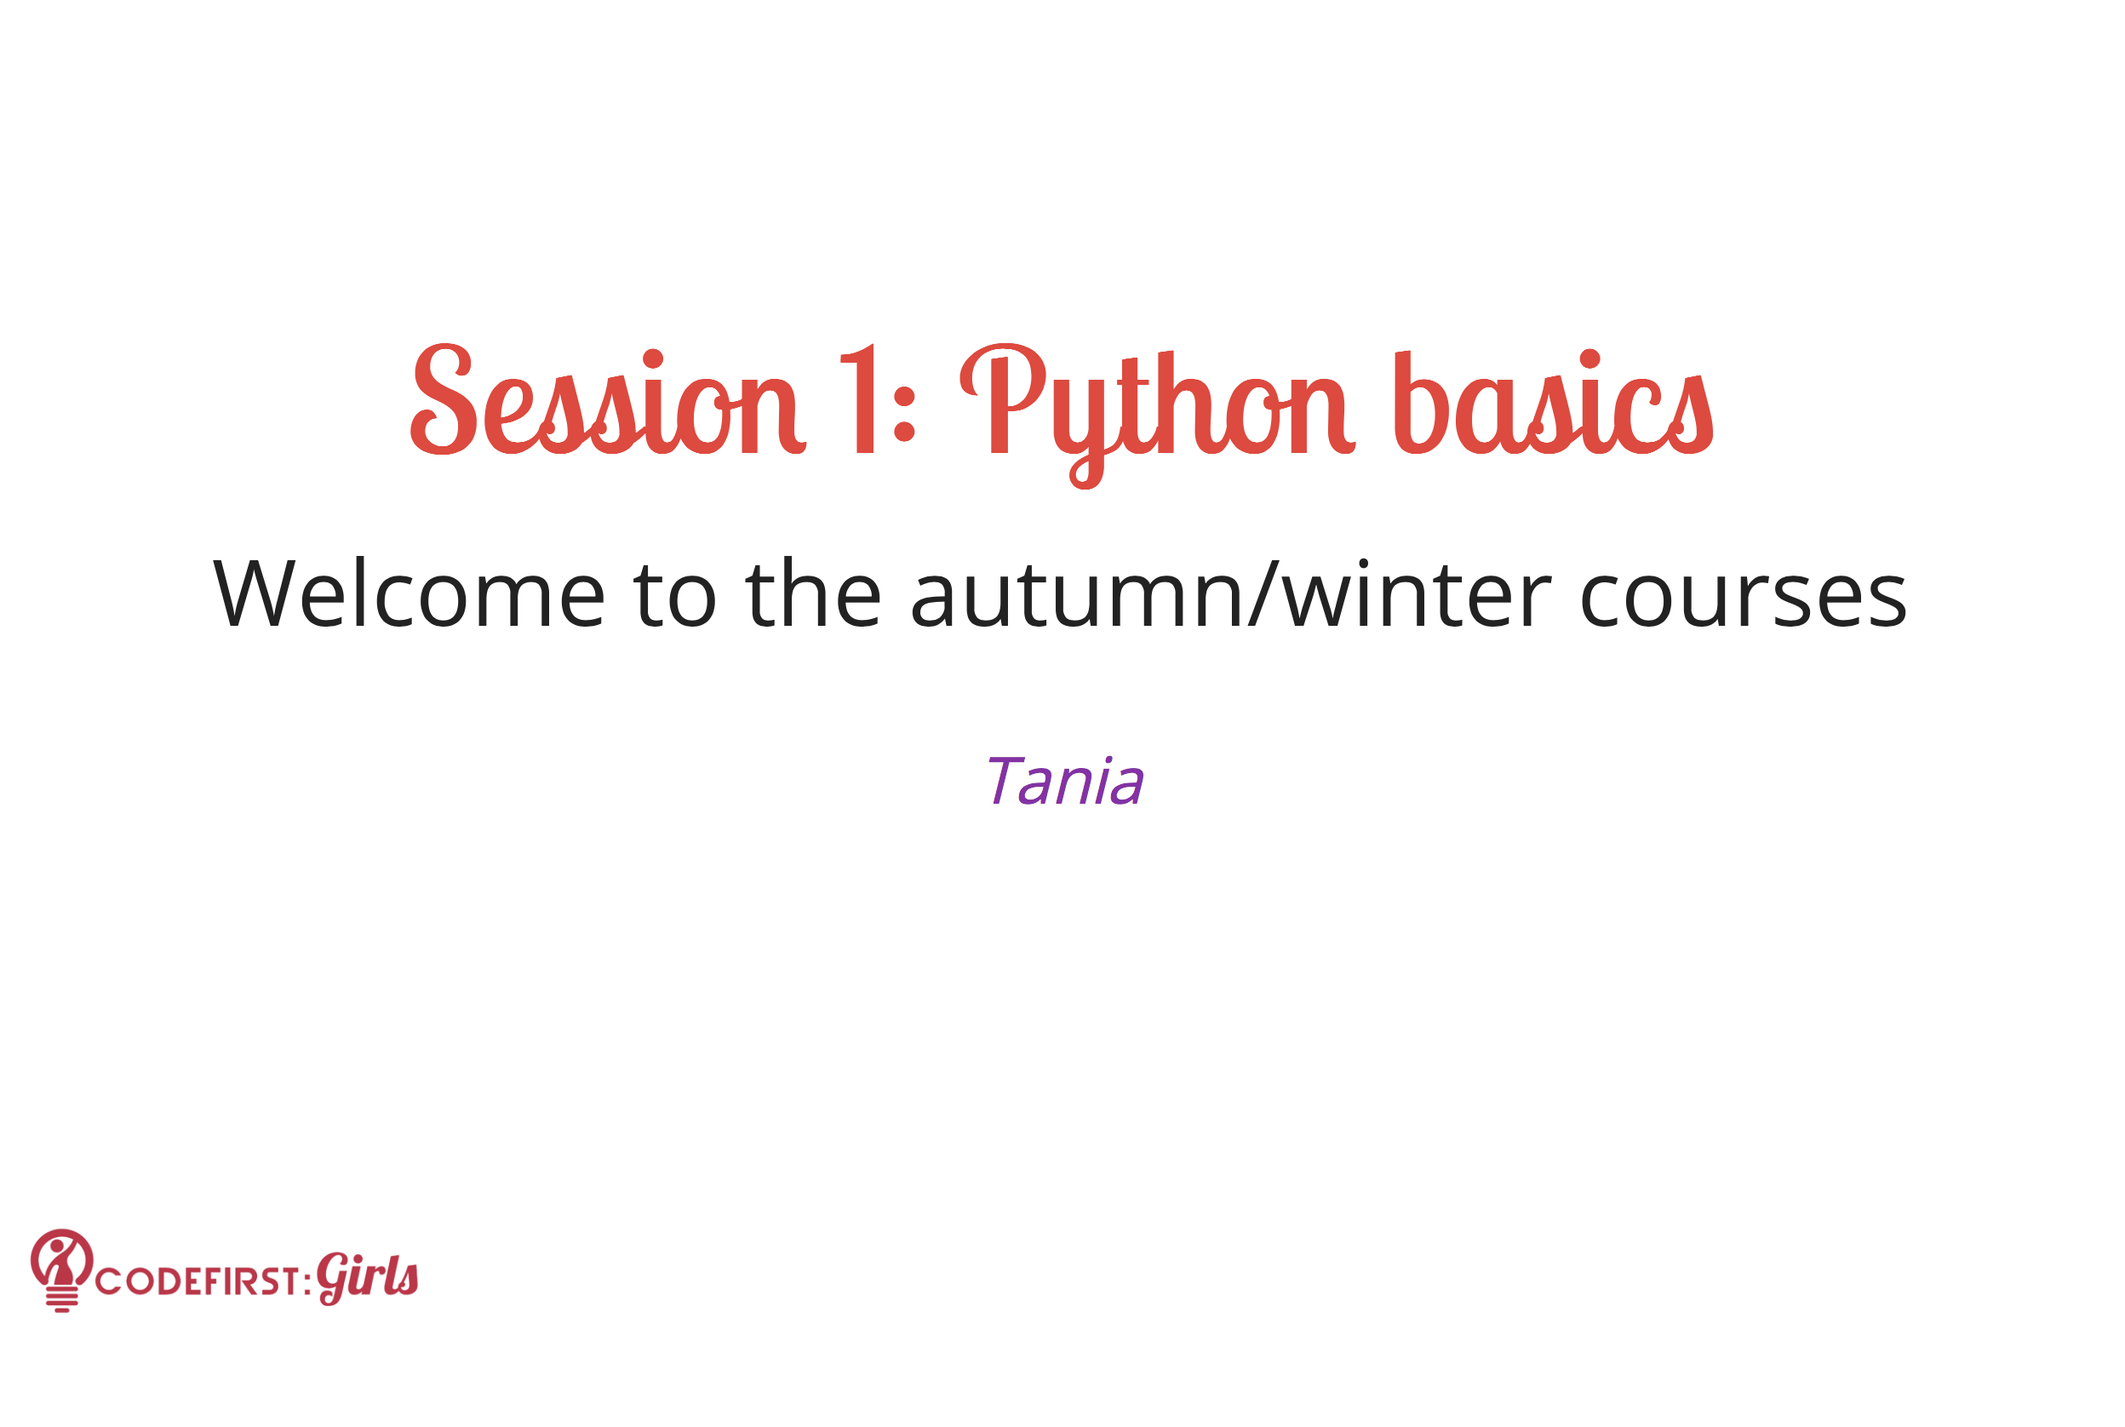
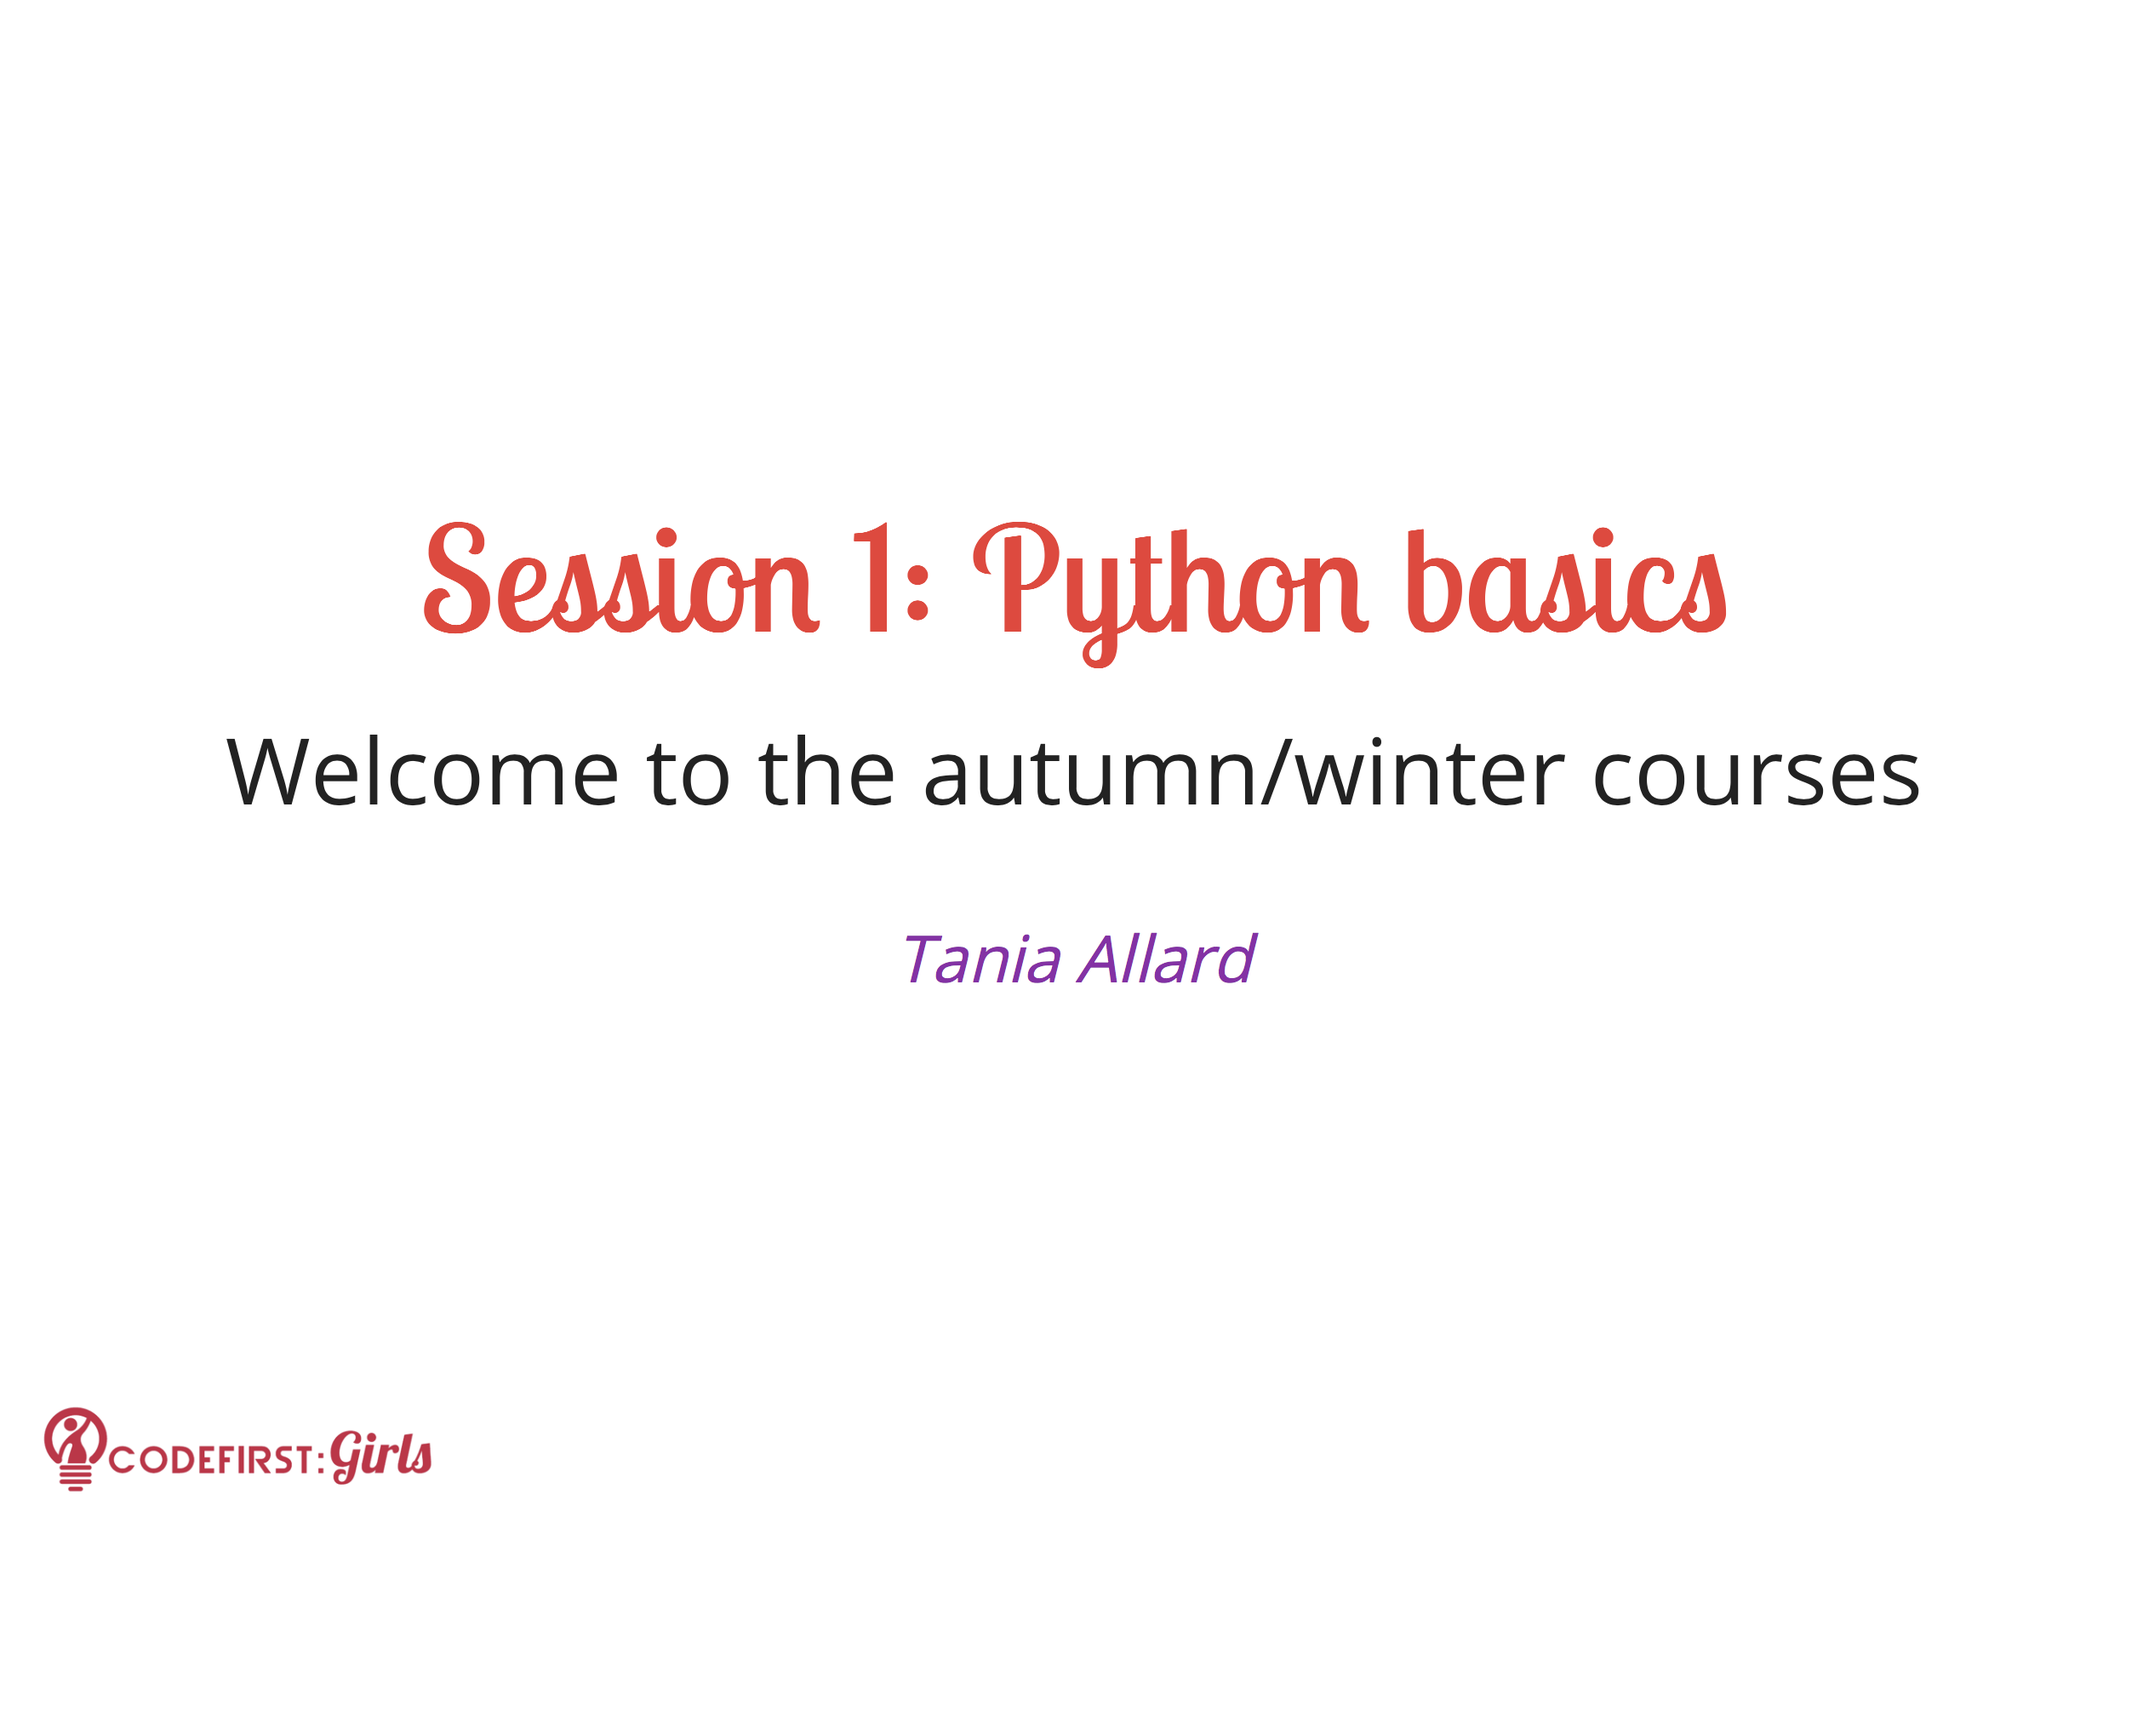
Added content to slides

Changed region(s): [[0.0938, 0.2172, 0.9062, 0.4654], [0.0, 0.8067, 0.2188, 0.9308], [0.4375, 0.5274, 0.5938, 0.5895]]

diff --git a/session1.html b/session1.html
@@ -33,20 +33,68 @@
 				<section>
 					<h2> Session 1: Python basics </h2>
 					<p>
-						 Welcome to the autumn/winter courses 
+						 Welcome to the autumn/winter courses
 					</p>
-					<p class='author'> Tania </p>
+					<p class='author'> Tania Allard </p>
 				</section>
 
 				<section>
-					<h2> A title </h2>
+					<h2> First things first... </h2>
+					<h3> Make sure you have all the following components </h3>
 					<ul>
-						<li> item 1 </li>
-						<li> <strong> item 2  </strong></li>
+						<li> Python3.x (3.6 preferably)</li>
+						<li> Git </li>
+						<li> A text editor: Atom, Sublime </li>
+						<li> GitKraken </li>
+						<li> pip </li>
 					</ul>
 				</section>
 
+				<section>
+					<h2> Where can I find the material? </h2>
+					You can find all the slides, links to the curriculum, and
+					to the GitHub repository at:
+					<br>
+					<br>
+					<p class='fragment grow'>
+						<a href="http://bitsandchips.me/Shef_CodeFirst_Python/">
+							http://bitsandchips.me/Shef_CodeFirst_Python/</a></p>
+				</section>
 
+				<section>
+					<h3>What is Python?</h3>
+					<img src="./assets/python_logo.jpg" alt="python logo"
+					style='float: left'>
+					<p> It is an <strong>open source</strong> programming language
+						with an emphasis on code readability...</p>
+					<p class='fragment'>which makes it great for beginners!!!
+					</p>
+				</section>
+
+				<section>
+					<h3> Using Python from terminal </h3>
+					Open a terminal (Mac) or Git Bash (Windows) and open Python
+					in interactive mode by typing:
+					<code>python -i</code>
+					<br>
+					Your terminal will look similar to this:
+					<img src="./assets/python_i.png" alt="interactive">
+				</section>
+
+				<section>
+					The <a href="https://www.python.org/dev/peps/pep-0020/">
+					Zen of Python</a> summarises the language's core principles.
+					<br><br>
+					Type <code> import this </code> and see what you get!
+					<br><br>
+					<p class='fragment'> Note: if you want to exit Python
+					type <code>quit()</code></p>
+				</section>
+
+				<section>
+					<h3>What will we be doing during this course?</h3>
+					<img src="./assets/webapp.png" alt="web app">
+				</section>
 
 			</div>
 		</div>
